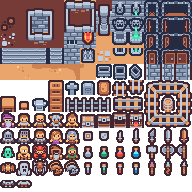
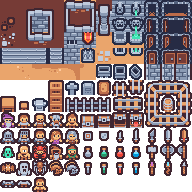
Player Sprite added

Changed region(s): [[0.1562, 0.9062, 0.25, 1.0], [0.0938, 0.6875, 0.1562, 0.7188]]

diff --git a/Roguelike/Player.cpp b/Roguelike/Player.cpp
@@ -1,5 +1,8 @@
 #include "Player.h"
 
+std::unordered_map<Armours, sf::IntRect> Player::m_rects = std::unordered_map<Armours, sf::IntRect>(); // initialize
+sf::IntRect Player::m_noArmourRect = sf::IntRect();
+
 /// <summary>
 /// Move the player by the specified row/col parameter passed into the function 
 /// </summary>
@@ -15,14 +18,29 @@ void Player::move(int row, int col)
 /// </summary>
 Player::Player() : m_playerTexture(nullptr)
 {
-	m_playerBody.setFillColor(sf::Color::Green);
-	m_playerBody.setSize(sf::Vector2f(G_CELL_SIZE, G_CELL_SIZE));
+	m_playerTexture = TextureManager::Acquire(ITEMS_TEXTURE);
+	m_playerBody.setTexture(*m_playerTexture);
 
-	m_playerBody.setOrigin(G_CELL_SIZE / 2.0f, G_CELL_SIZE / 2.0f);
+	UpdateArmourLook();
 
+	m_playerBody.setOrigin(m_playerBody.getTextureRect().width / 2.0f, 
+		m_playerBody.getTextureRect().height / 2.0f);
+	m_playerBody.setScale(2.0f, 2.0f);
 	// Sets player to centre of map hard coded for now 
-	setPosition(G_ROOM_ROWS / 2, G_ROOM_COLS / 2);
+	setPosition(int(G_ROOM_ROWS / 2), int(G_ROOM_COLS / 2));
+	//setPosition(0, 1);
+
+	if (m_rects.size() == 0)
+	{
+		//m_rects.try_emplace(Armours)
+		m_rects.try_emplace(Armours::Heavy, sf::IntRect{ 16,128,16,16 });
+		m_rects.try_emplace(Armours::Medium, sf::IntRect{ 32,128,16,16 });
+		m_rects.try_emplace(Armours::Light, sf::IntRect{ 16,112,16,16 });
+		m_noArmourRect = sf::IntRect{ 32,176,16,16 };
+	}
 }
+
+
 
 
 /// <summary>
@@ -36,7 +54,7 @@ Player::Player() : m_playerTexture(nullptr)
 /// ~~~~~~~~~~~~~~~~~~~~~
 void Player::Update(sf::Time t_deltaTime)
 {
-
+	UpdateArmourLook();
 }
 
 /// <summary>
@@ -119,8 +137,8 @@ sf::Vector2f Player::GetPosition()
 void Player::setPosition(int row, int col)
 {
 	// Sets player to centre of map
-	m_playerBody.setPosition(G_CELL_SIZE * (row) + G_CELL_SIZE / 2.0f,
-		G_CELL_SIZE * (col) + G_CELL_SIZE / 2.0f);
+	m_playerBody.setPosition(G_CELL_SIZE * (row),
+		G_CELL_SIZE * (col));
 }
 
 void Player::PickUpItem(AbstractItem& t_item)
@@ -163,3 +181,19 @@ void Player::UsePotion()
 {
 }
 
+void Player::UpdateArmourLook()
+{
+	if (m_currentArmour != nullptr)
+	{
+		AbstractArmour* currentArmourAbs = static_cast<AbstractArmour*>(m_currentArmour);
+
+		Armours armourType = currentArmourAbs->GetType();
+		
+		m_playerBody.setTextureRect(m_rects.at(armourType));
+	}
+
+	else
+	{
+		m_playerBody.setTextureRect(m_noArmourRect);
+	}
+}

diff --git a/Roguelike/Player.h b/Roguelike/Player.h
@@ -16,17 +16,18 @@ class Player
 private:
 
 	// Variables
-
+		
 	//sf::Sprite m_playerBody; 
 
 	int m_x, m_y;
 	/// Appearance of player.
 	/// For now it will be a rectangle shape, until a spritesheet can be sorted.
-	sf::RectangleShape m_playerBody;
+	sf::Sprite m_playerBody;
 
 	/// Reference to the texture of the player.
-	sf::Texture* m_playerTexture;
-
+	std::shared_ptr<sf::Texture> m_playerTexture;
+	static std::unordered_map<Armours, sf::IntRect> m_rects;
+	static sf::IntRect m_noArmourRect;
 
 	//A basic inventory
 	Weapons m_playerWeapon;
@@ -56,6 +57,8 @@ private:
 	// Methods / Functions
 
 	//void MoveSquare(sf::Vector2f t_direction);
+
+	void UpdateArmourLook();
 
 public:
 

diff --git a/Roguelike/AbstractItem.h b/Roguelike/AbstractItem.h
@@ -20,7 +20,7 @@ public:
 	{
 		m_itemTexture = TextureManager::Acquire(ITEMS_TEXTURE);
 		m_itemSprite.setTexture(*m_itemTexture);
-		m_itemSprite.setOrigin(m_itemSprite.getTextureRect().width, m_itemSprite.getTextureRect().height);
+		m_itemSprite.setOrigin(m_itemSprite.getTextureRect().width/ 2.0f, m_itemSprite.getTextureRect().height / 2.0f);
 
 		m_itemSprite.setPosition(G_CELL_SIZE * (10) + G_CELL_SIZE / 2.0f,
 			G_CELL_SIZE * (10) + G_CELL_SIZE / 2.0f);

diff --git a/Roguelike/AbstractArmour.h b/Roguelike/AbstractArmour.h
@@ -17,6 +17,8 @@ public:
 	}
 	~AbstractArmour() {};
 	void SetType() { m_itemType = ItemType::Armour; m_itemSprite.setTextureRect(m_rects.at(m_armourType)); };
+	Armours GetType() { return m_armourType; }
+
 	int GetArmour()
 	{
 		if (m_rarity > 3)

diff --git a/Roguelike/Gameplay.cpp b/Roguelike/Gameplay.cpp
@@ -27,6 +27,7 @@ void Gameplay::update(sf::Time t_dt)
 {
 	TextureManager::Collectgarbage();
 	m_grid.update(t_dt);
+	player.Update(t_dt);
 }
 
 void Gameplay::render(sf::RenderWindow& t_window)
